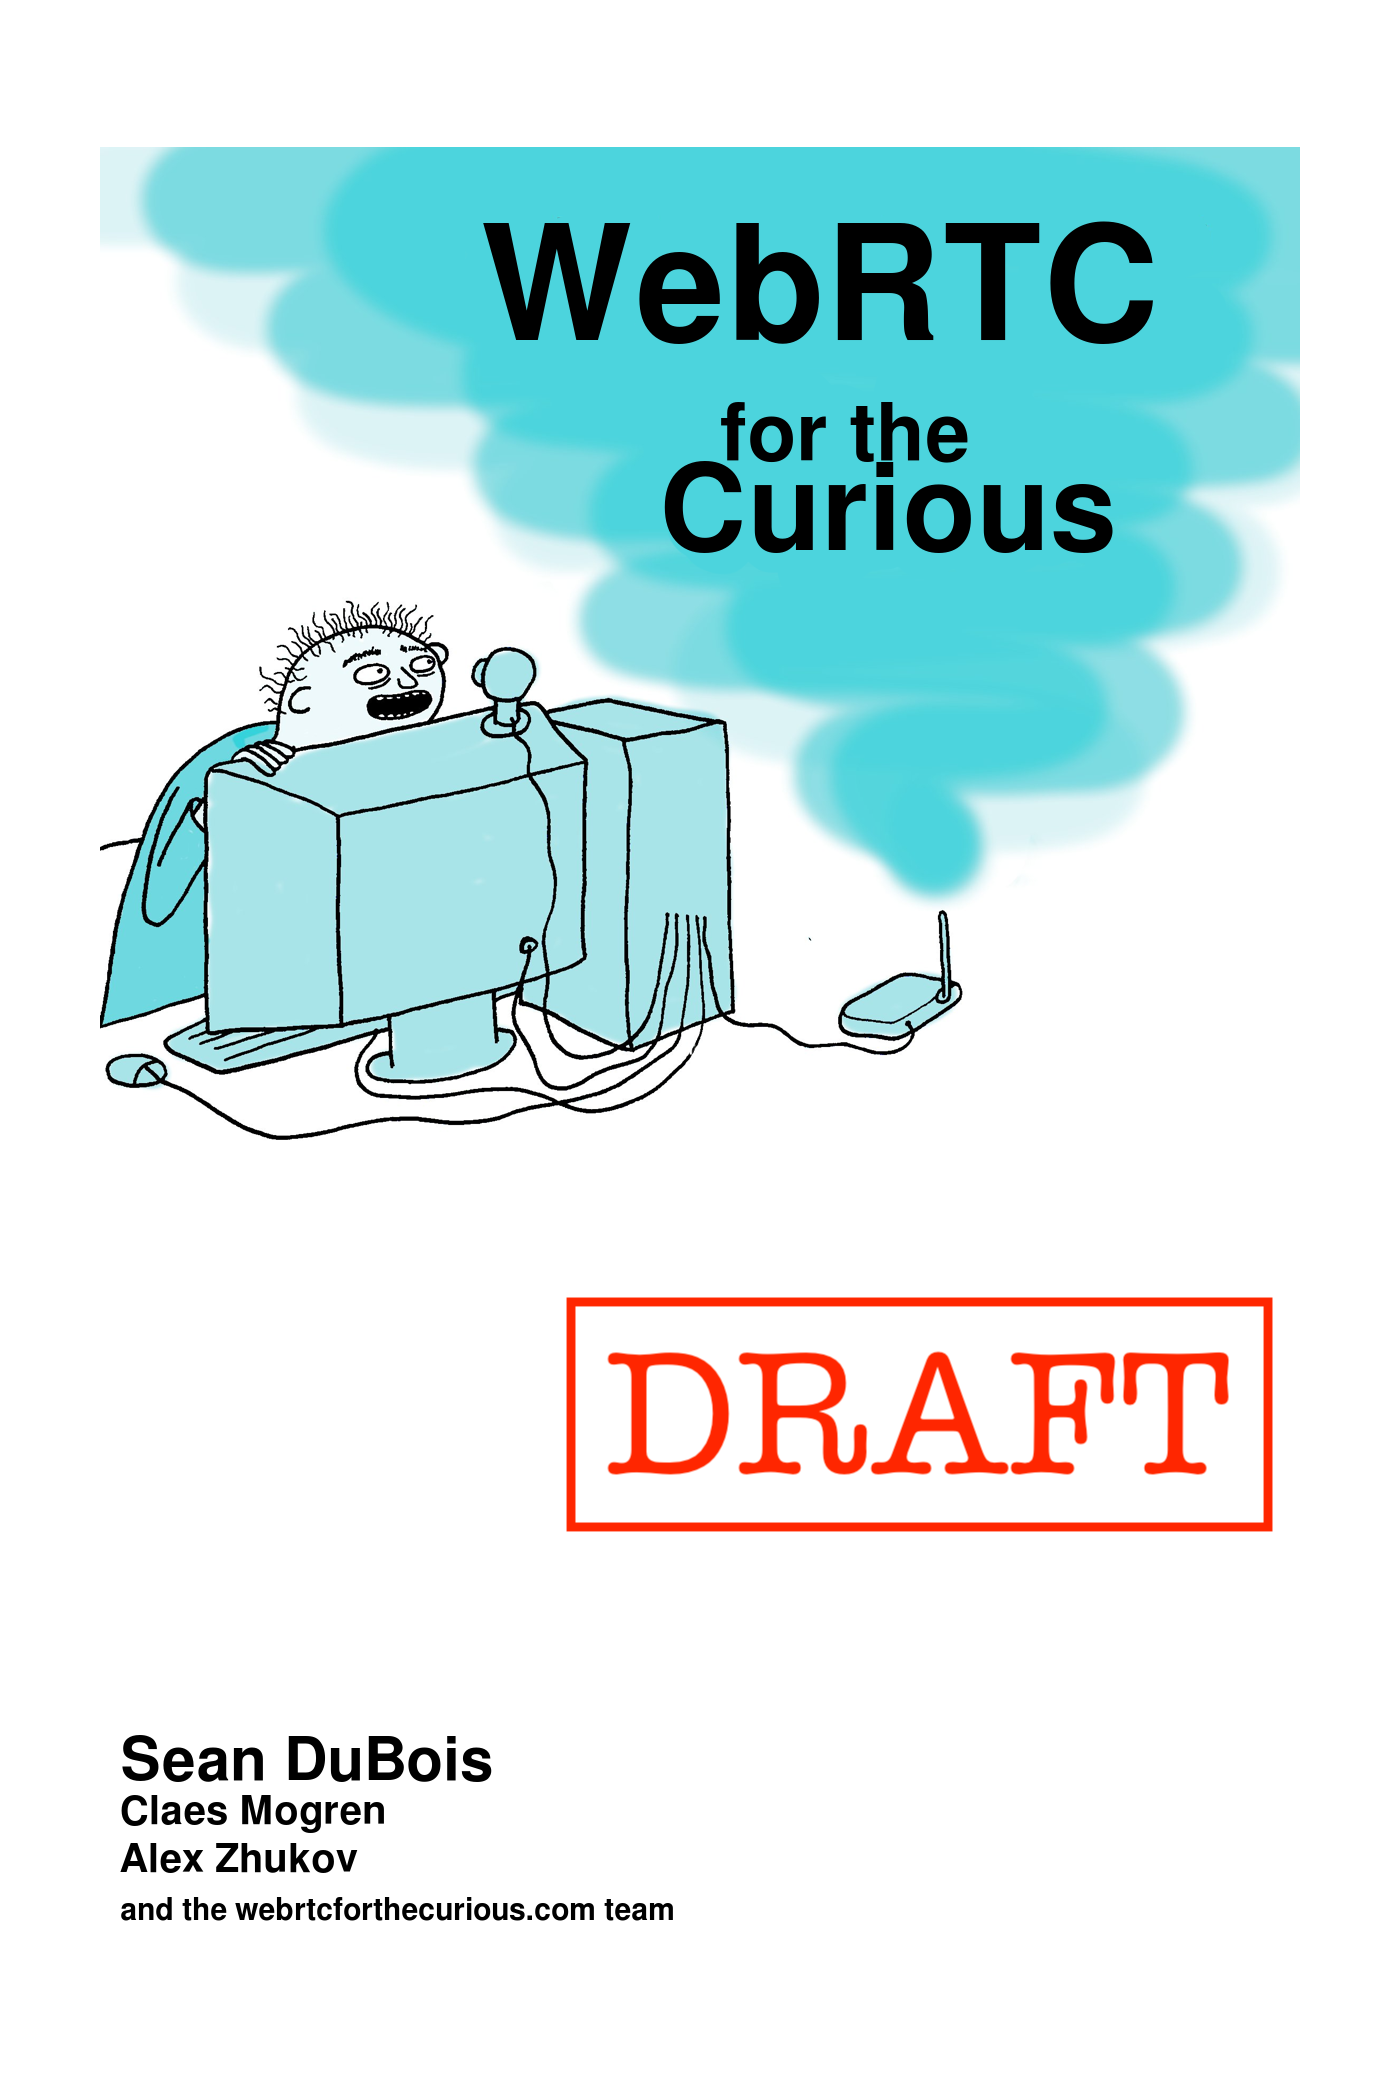
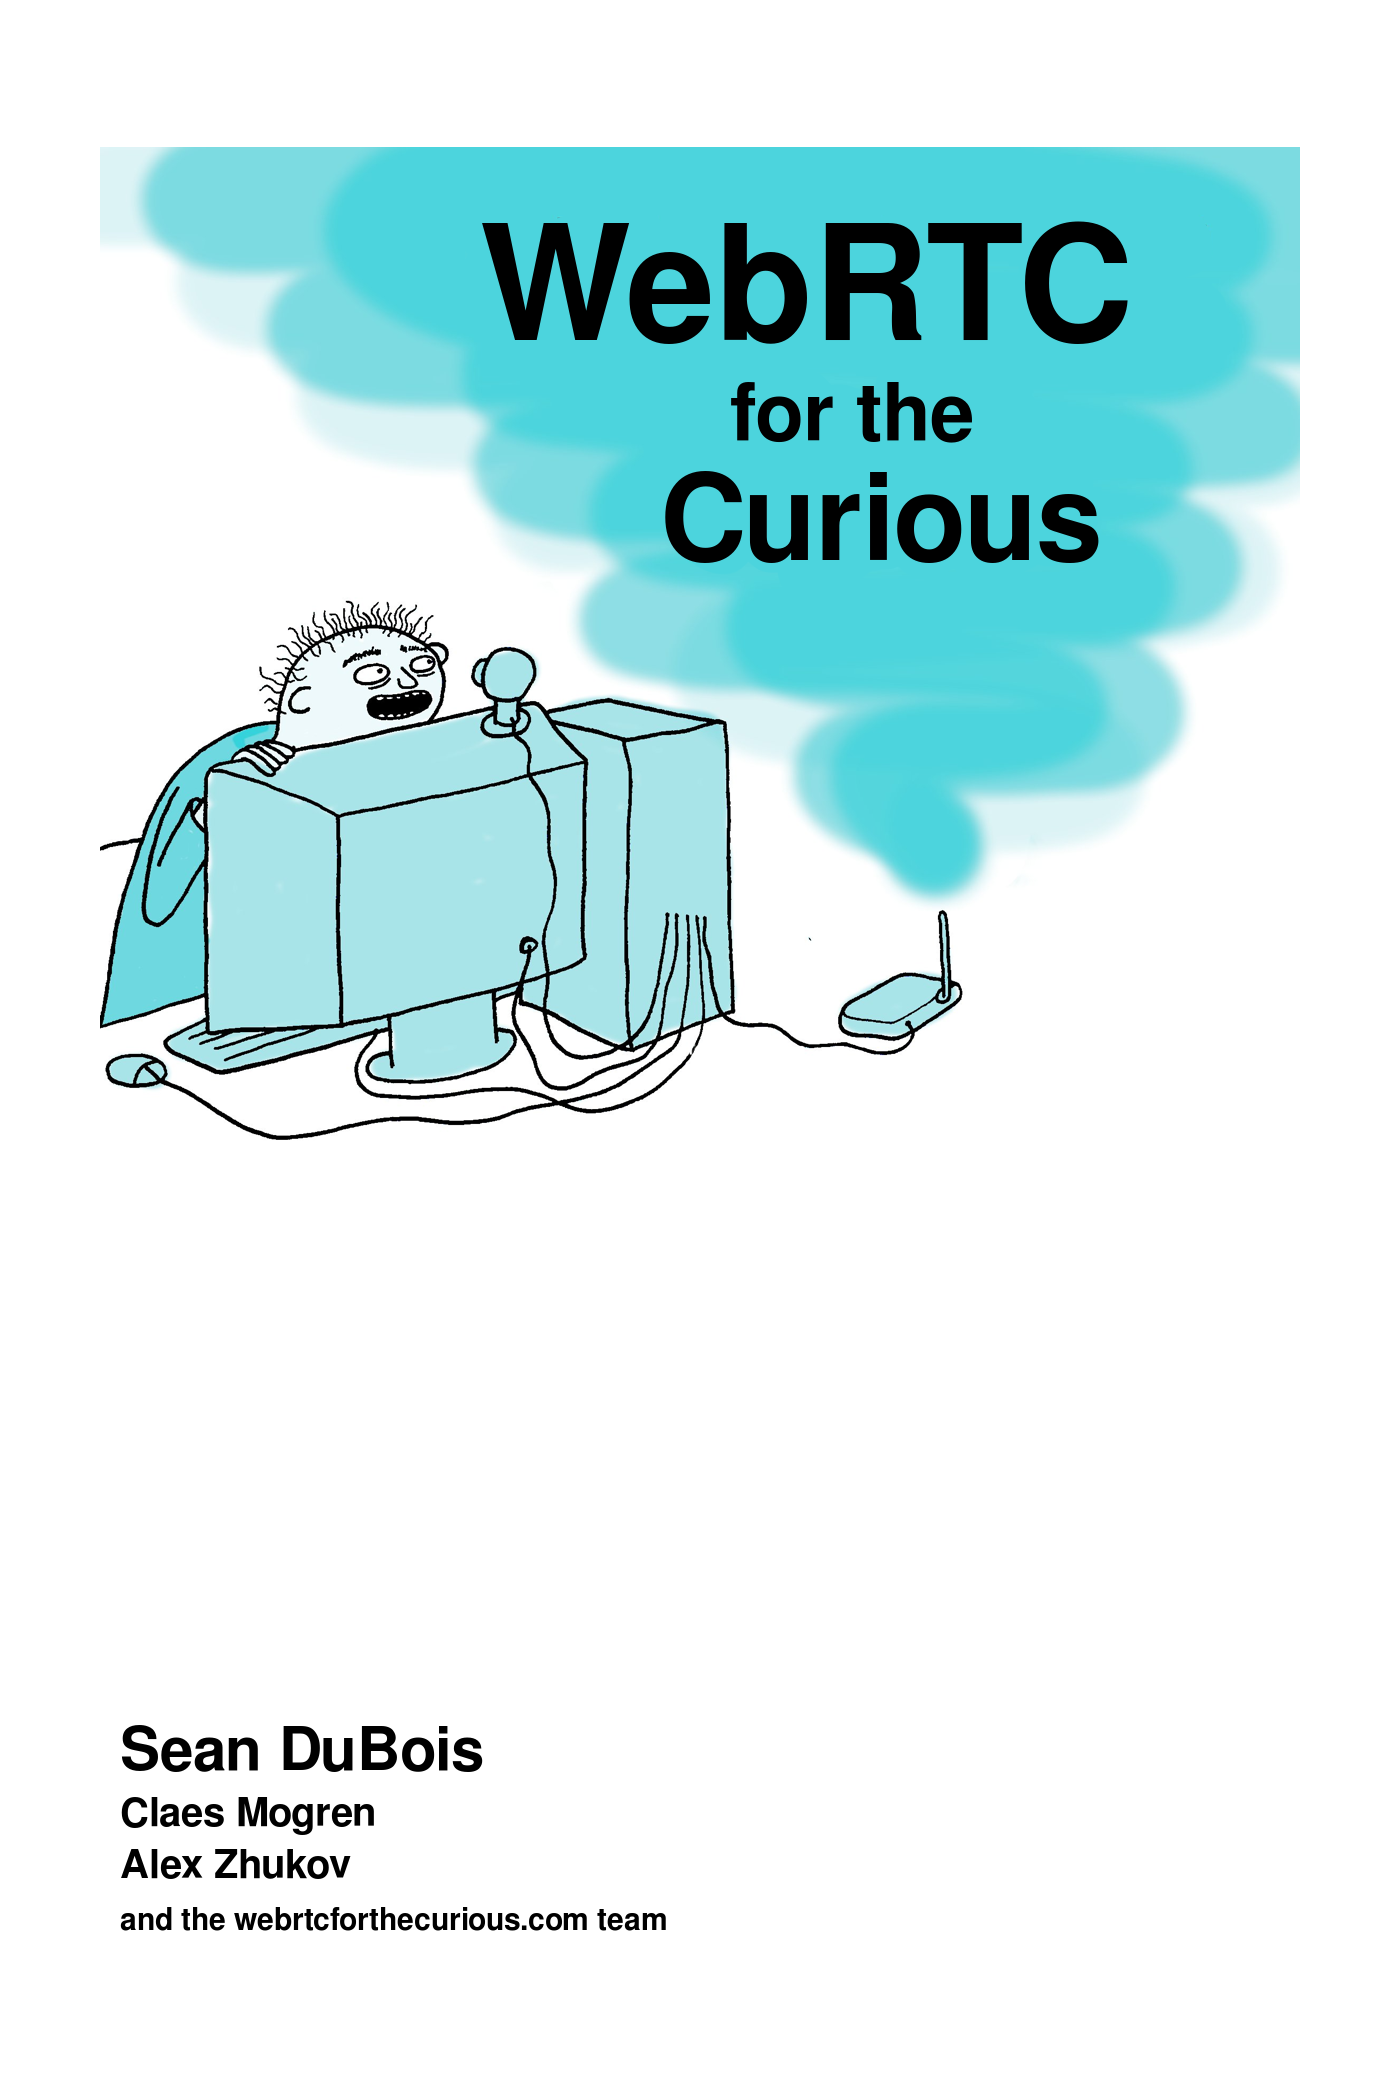
Update cover images and add to PDFs
* Updated cover image to PDFs
* Removed DRAFT from the cover image
* Added Swedish epub

Changed region(s): [[0.3993, 0.619, 0.9214, 0.7429], [0.3686, 0.0929, 0.8293, 0.2786], [0.0921, 0.8048, 0.4914, 0.9286]]

diff --git a/make-cover-sv.py b/make-cover-sv.py
@@ -34,9 +34,8 @@ best = authors_by_contrib[0]
 
 convert_command="""magick \"content/images/epub-cover clean notitle.png\"\
  -font Free-Sans-Bold -fill black\
- -pointsize 160 -draw "text 480,340 'WebRTC'"\
- -pointsize 80 -draw "text 730,440 'for the'"\
- -pointsize 120 -draw "text 660,560 'Curious'"\
+ -pointsize 160 -draw "text 480,350 'WebRTC'"\
+ -pointsize 120 -draw "text 540,470 'för nyfikna'"\
 """
 
 convert_command+=f" -pointsize 60 -draw \"text 120,1770 '{best[0]}'\""
@@ -46,8 +45,8 @@ for i in range(1,min(3, len(authors_by_contrib))):
     convert_command+=f" -pointsize 40 -draw \"text 120,{ypos} '{authors_by_contrib[i][0]}'\""
 
 ypos = ypos + i*26
-convert_command+=f" -pointsize 30 -draw \"text 120,{ypos} 'and the webrtcforthecurious.com team'\""
+convert_command+=f" -pointsize 30 -draw \"text 120,{ypos} 'och webrtcforthecurious.com teamet'\""
 
-convert_command+=" \"content/images/epub-cover.png\""
+convert_command+=" \"content.sv/images/epub-cover.png\""
 print(convert_command)
 subprocess.check_output(convert_command, shell=True, text=True)

diff --git a/content.sv/_index.md b/content.sv/_index.md
@@ -3,6 +3,8 @@ title: Introduktion
 type: docs
 ---
 
+\newpage{}
+
 # WebRTC för nyfikna
 
 Den här boken har skrivits av WebRTC-utvecklare för att dela med sig av sina erfarenheter och kunskaper med världen.
@@ -36,8 +38,8 @@ Inget kapitel kräver några förkunskaper. Du kan börja var som helst i boken 
 ## Fritt tillgängligt och respekterar integritet
 
 Denna bok finns på [GitHub](https://github.com/webrtc-for-the-curious/webrtc-for-the-curious) och [WebRTCforTheCurious.com](https://webrtcforthecurious.com).
-Den är licensierad så att du kan använda den på det sätt du tycker är bäst. Du kan också ladda ner boken i sin nuvarande version som en [ePub](https://webrtcforthecurious.com/docs/webrtc-for-the-curious.epub)
-eller [PDF på Svenska](https://webrtcforthecurious.com/docs/webrtc-for-the-curious-sv.pdf).
+Den är licensierad så att du kan använda den på det sätt du tycker är bäst. Du kan också ladda ner boken i sin nuvarande version på svenska som en [ePub](https://webrtcforthecurious.com/docs/webrtc-for-the-curious-sv.epub)
+eller [PDF](https://webrtcforthecurious.com/docs/webrtc-for-the-curious-sv.pdf).
 
 Denna bok är skriven av individer, för individer. Den är helt oberoende av leverantörer, så den kommer vi inte att ge några rekommendationer som kan vara en intressekonflikt.
 

diff --git a/content/_index.md b/content/_index.md
@@ -3,6 +3,8 @@ title: Introduction
 type: docs
 ---
 
+\newpage{}
+
 # WebRTC For The Curious
 
 This book was created by WebRTC implementers to share their hard-earned knowledge with the world.
